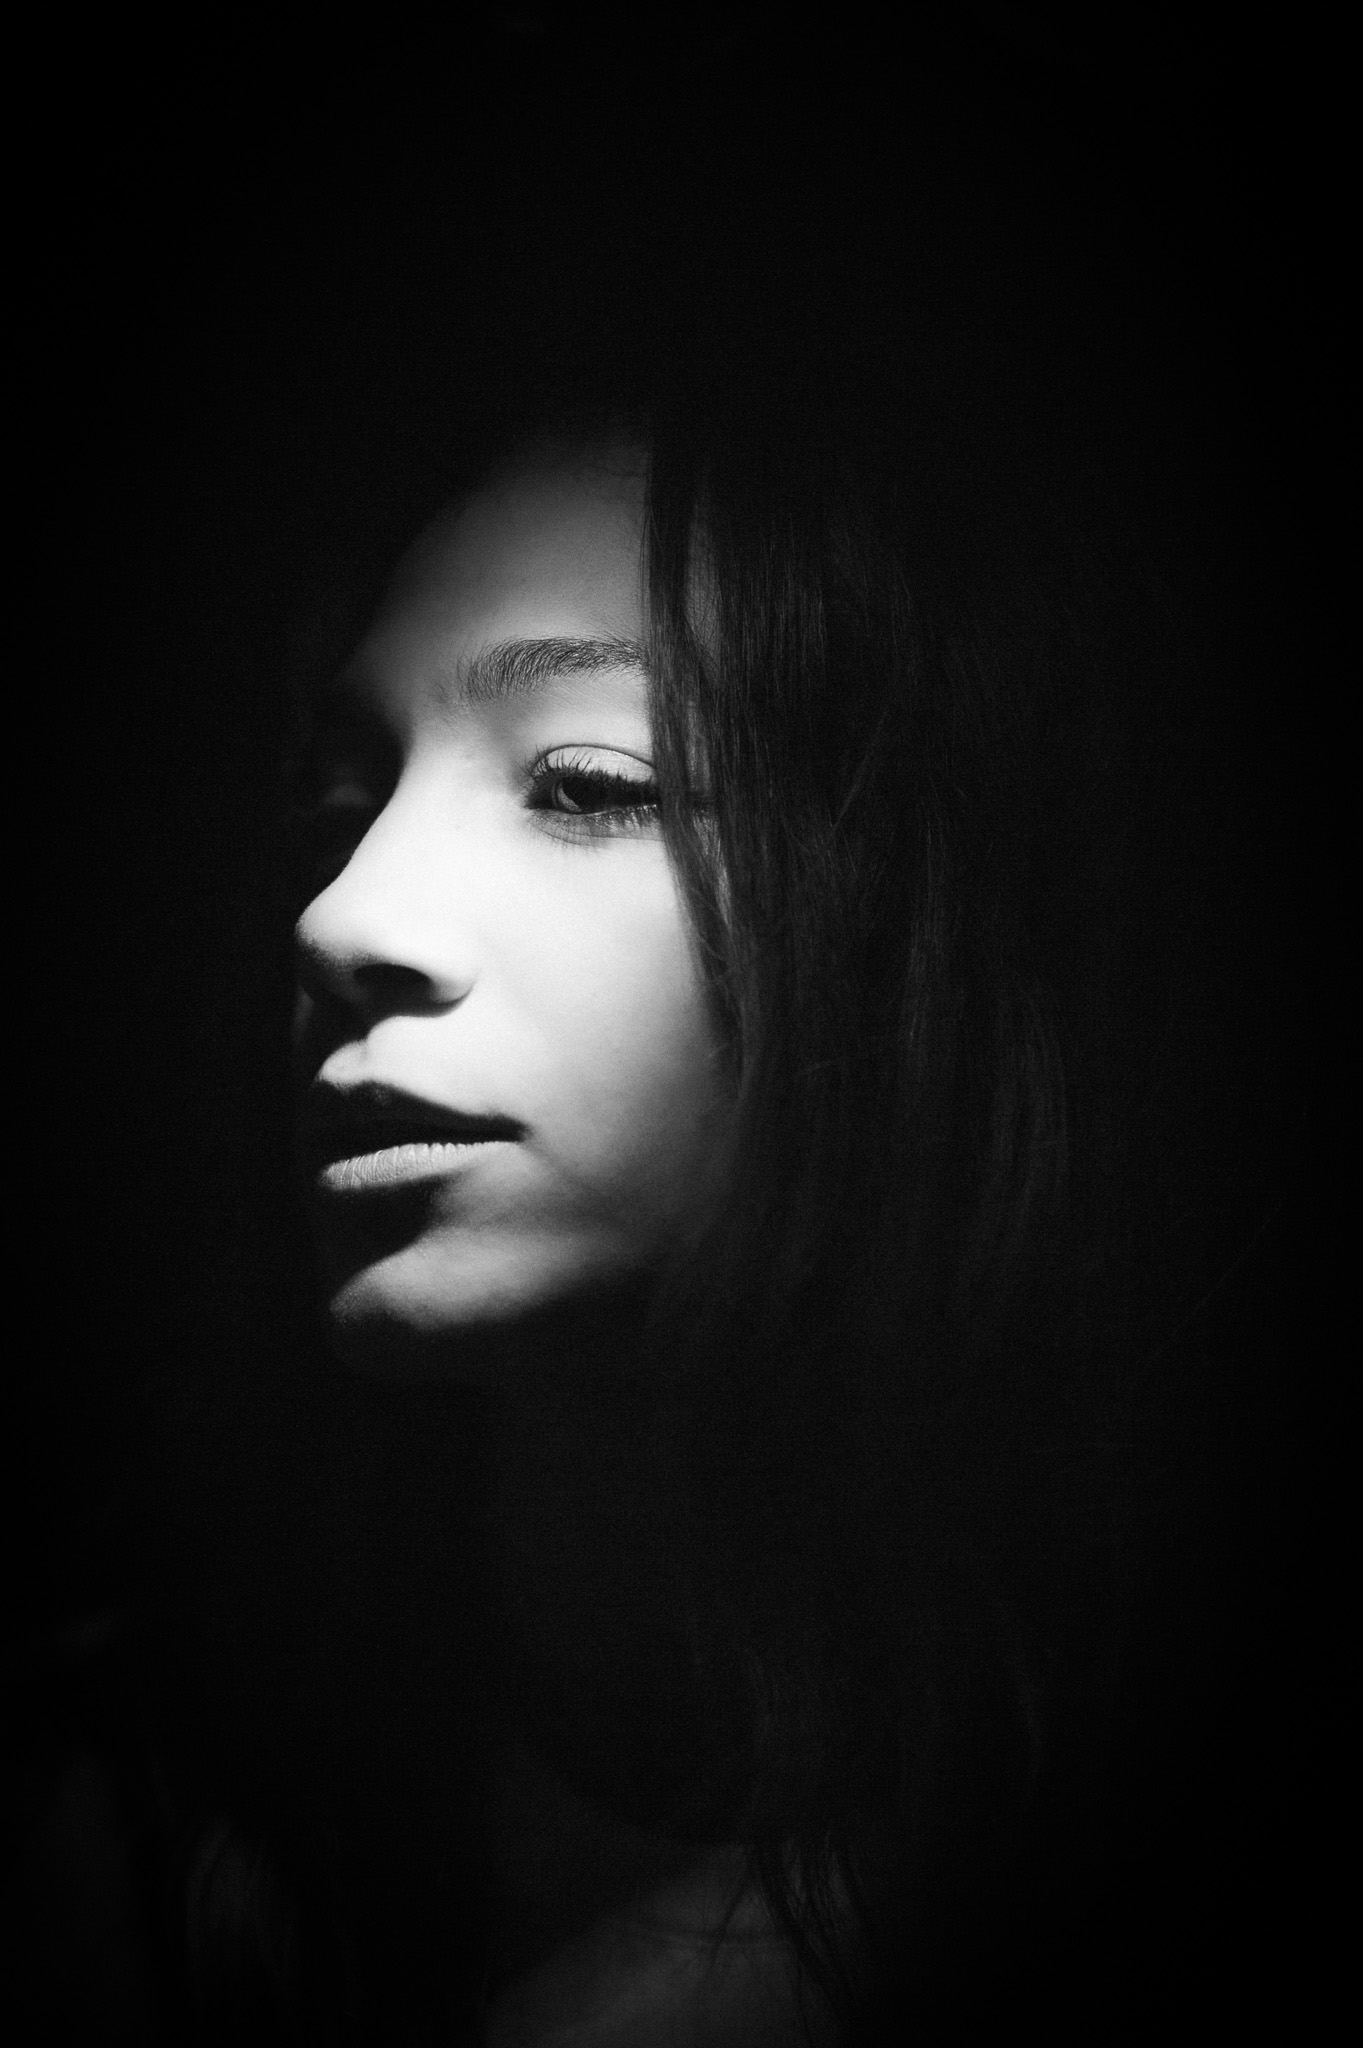
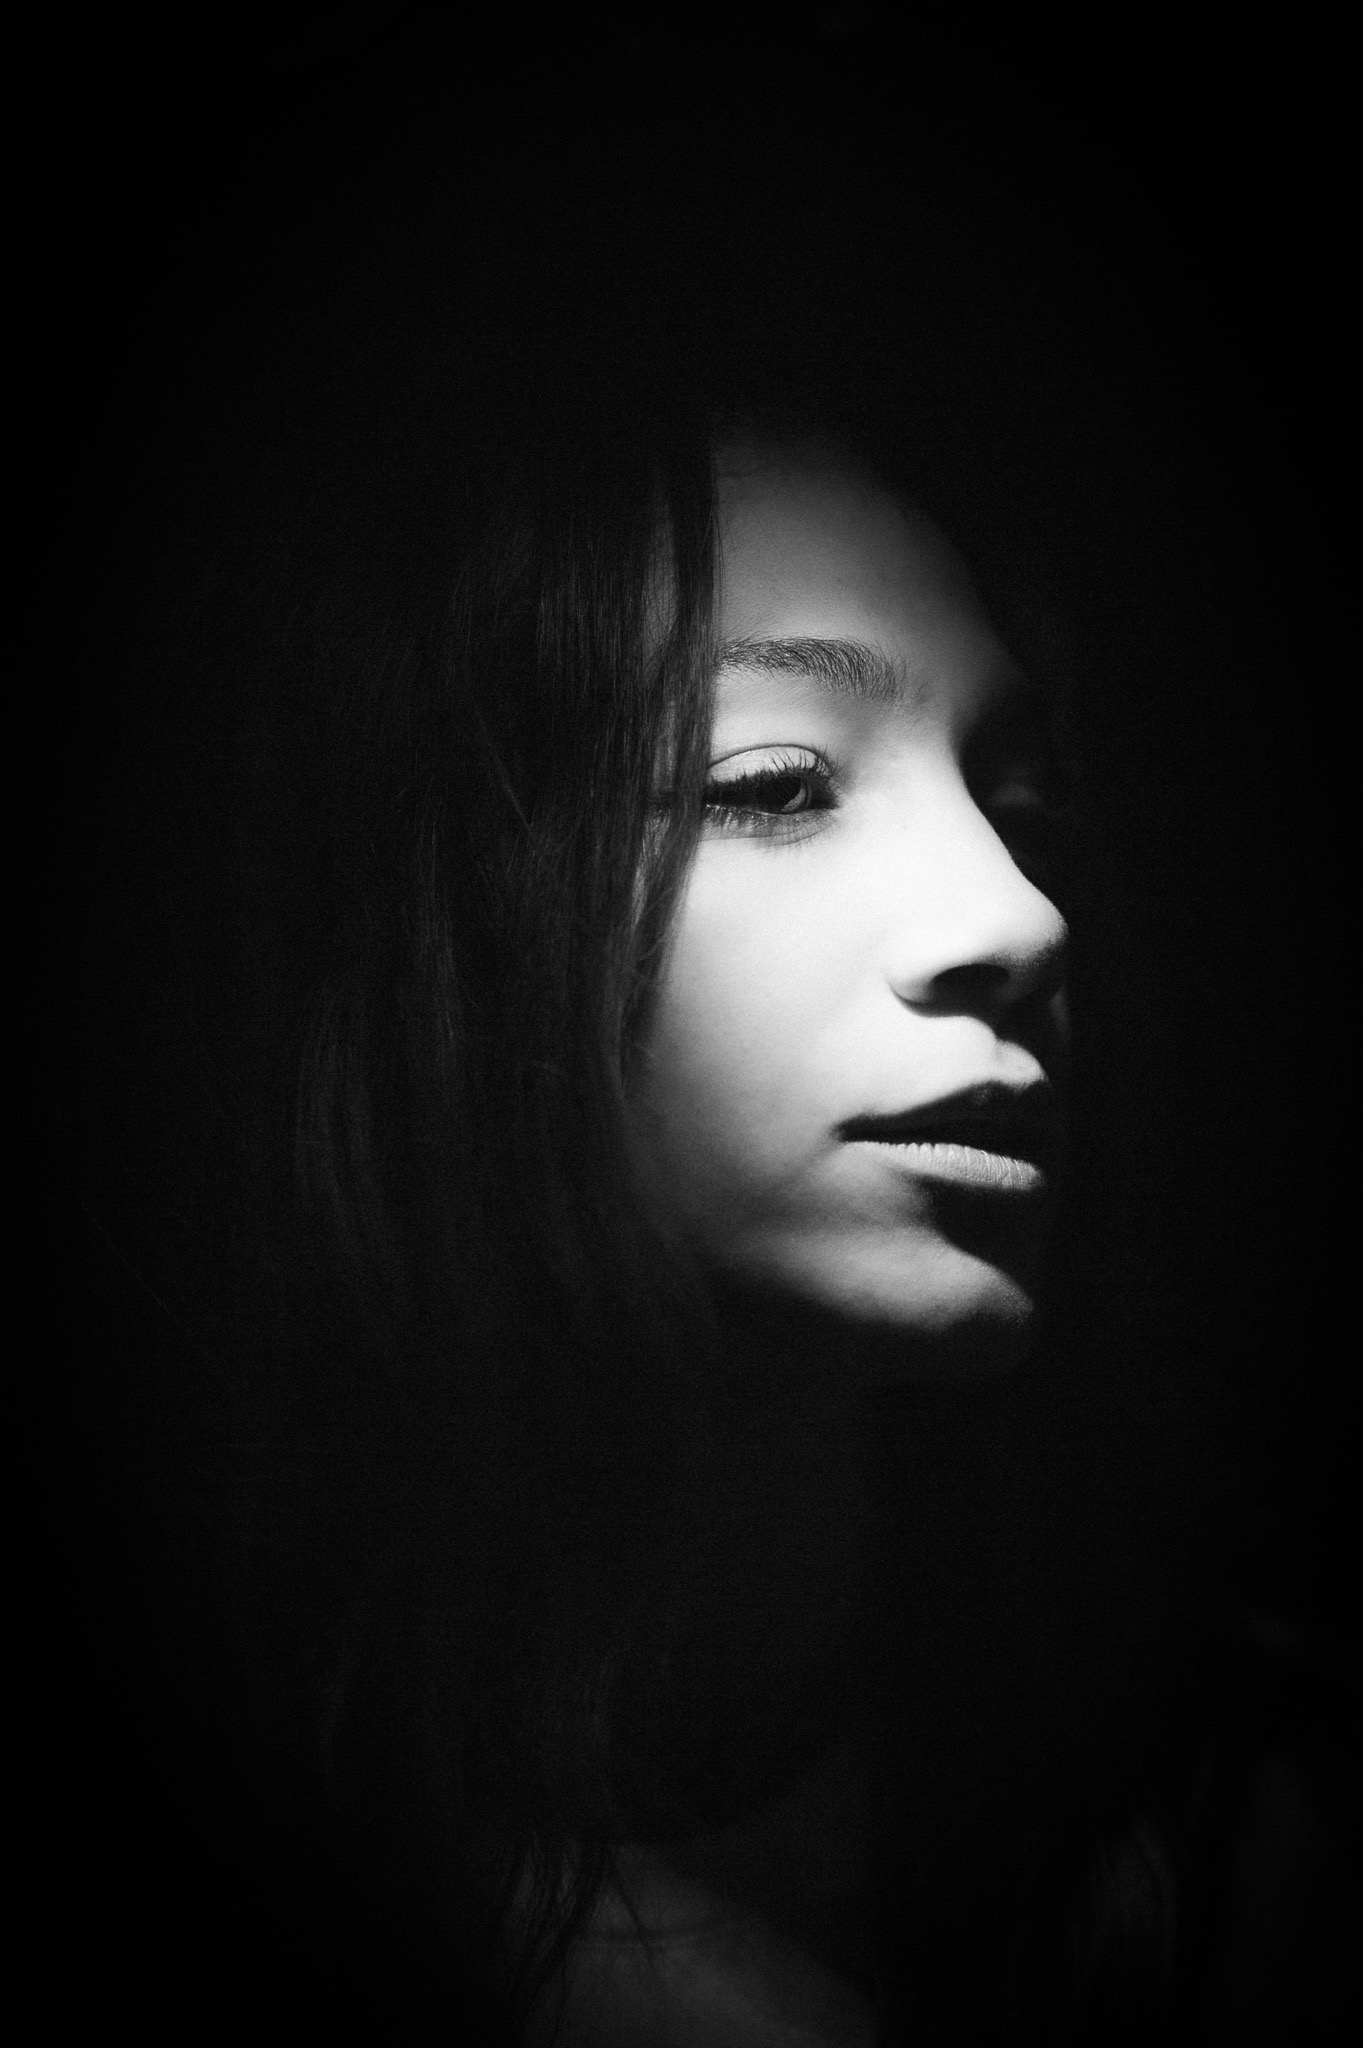
Make INDY MOOD a top-level portfolio category, flip a photo to face inward
- Move INDY MOOD out of Portrait into its own category on /portfolio
- Add a new INDY MOOD photo (11)
- Flip INDY MOOD photo 03 so she faces into the gallery
- Remove Ma Vie photo 2
- Replace studio hero photo with a better-lit retouch
- About: "fille d'un photographe de mode" instead of "belge reconnu"

Changed region(s): [[0.2157, 0.2188, 0.8012, 0.6562]]

diff --git a/src/data/portfolio.ts b/src/data/portfolio.ts
@@ -97,6 +97,7 @@ import portraitMyMood07 from "@/images/portfolio/portrait/My Mood/07.jpg";
 import portraitMyMood08 from "@/images/portfolio/portrait/My Mood/08.jpg";
 import portraitMyMood09 from "@/images/portfolio/portrait/My Mood/09.jpg";
 import portraitMyMood10 from "@/images/portfolio/portrait/My Mood/10.jpg";
+import portraitMyMood11 from "@/images/portfolio/portrait/My Mood/11.jpg";
 import portraitDidierVdbCover from "@/images/portfolio/portrait/didier-vdb/cover.jpg";
 import portraitDidierVdb01 from "@/images/portfolio/portrait/didier-vdb/01.jpg";
 import portraitDidierVdb02 from "@/images/portfolio/portrait/didier-vdb/02.jpg";
@@ -115,7 +116,6 @@ import portraitEsphan09 from "@/images/portfolio/portrait/esphan/09.jpg";
 import corporateCover from "@/images/portfolio/corporate/cover.jpg";
 import corporateMaVieCover from "@/images/portfolio/corporate/ma-vie/cover.jpg";
 import corporateMaVie01 from "@/images/portfolio/corporate/ma-vie/01.jpg";
-import corporateMaVie02 from "@/images/portfolio/corporate/ma-vie/02.jpg";
 import corporateMaVie03 from "@/images/portfolio/corporate/ma-vie/03.jpg";
 import corporateMaVie04 from "@/images/portfolio/corporate/ma-vie/04.jpg";
 import corporateMaVie05 from "@/images/portfolio/corporate/ma-vie/05.jpg";
@@ -171,7 +171,8 @@ export type CategorySlug =
   | "portrait"
   | "corporate"
   | "sante"
-  | "famille";
+  | "famille"
+  | "my-mood";
 
 export type Series = {
   slug: string;
@@ -293,15 +294,6 @@ export const categories: CategoryData[] = [
         ],
       },
       {
-        slug: "my-mood",
-        cover: portraitMyMoodCover,
-        images: [
-          portraitMyMood01, portraitMyMood02, portraitMyMood03, portraitMyMood04,
-          portraitMyMood05, portraitMyMood06, portraitMyMood07, portraitMyMood08,
-          portraitMyMood09, portraitMyMood10,
-        ],
-      },
-      {
         slug: "didier-vdb",
         cover: portraitDidierVdbCover,
         images: [
@@ -328,7 +320,7 @@ export const categories: CategoryData[] = [
         slug: "ma-vie",
         cover: corporateMaVieCover,
         images: [
-          corporateMaVie01, corporateMaVie02, corporateMaVie03, corporateMaVie04,
+          corporateMaVie01, corporateMaVie03, corporateMaVie04,
           corporateMaVie05, corporateMaVie06, corporateMaVie09, corporateMaVie11,
           corporateMaVie12, corporateMaVie13, corporateMaVie14, corporateMaVie15,
           corporateMaVie17,
@@ -371,6 +363,21 @@ export const categories: CategoryData[] = [
         cover: familleFemmeEnceinteCover,
         images: [
           familleFemmeEnceinte01, familleFemmeEnceinte02, familleFemmeEnceinte03,
+        ],
+      },
+    ],
+  },
+  {
+    slug: "my-mood",
+    cover: portraitMyMoodCover,
+    series: [
+      {
+        slug: "my-mood",
+        cover: portraitMyMoodCover,
+        images: [
+          portraitMyMood01, portraitMyMood02, portraitMyMood03, portraitMyMood04,
+          portraitMyMood05, portraitMyMood06, portraitMyMood07, portraitMyMood08,
+          portraitMyMood09, portraitMyMood10, portraitMyMood11,
         ],
       },
     ],

diff --git a/src/lib/i18n.ts b/src/lib/i18n.ts
@@ -167,6 +167,13 @@ export const dictionaries: Record<Locale, Dictionary> = {
           "femme-enceinte": "Femme enceinte",
         },
       },
+      "my-mood": {
+        title: "INDY MOOD",
+        description: "Univers personnel et créatif, entre expérimentation et émotion.",
+        series: {
+          "my-mood": "INDY MOOD",
+        },
+      },
     },
     subseries: {
       portrait: {
@@ -287,7 +294,7 @@ export const dictionaries: Record<Locale, Dictionary> = {
     about: {
       title: "À propos",
       paragraphs: [
-        "Fille d'un photographe belge reconnu, j'ai grandi entourée d'objectifs, de lumière et d'émotions capturées. Tout naturellement, j'ai suivi les traces de mon père, en apportant ma propre sensibilité et ma vision artistique à ce métier.",
+        "Fille d'un photographe de mode, j'ai grandi entourée d'objectifs, de lumière et d'émotions capturées. Tout naturellement, j'ai suivi les traces de mon père, en apportant ma propre sensibilité et ma vision artistique à ce métier.",
         "Depuis un an, je me consacre pleinement à la photographie, un univers où je peux exprimer ma créativité et donner vie aux émotions à travers l'image. Mon style est avant tout artistique, mais je reste ouverte à différents univers : portrait, mode, concepts créatifs ou projets professionnels.",
         "J'ai commencé mon parcours dans mon propre studio photo, un espace où je peux créer librement, jouer avec la lumière, les textures et les atmosphères pour raconter des histoires visuelles uniques. Chaque séance est une rencontre — une expérience humaine et artistique où l'authenticité prime avant tout.",
         "Mon objectif ? Capturer l'instant, révéler la beauté dans sa forme la plus pure, et créer des images qui vous ressemblent vraiment.",
@@ -384,6 +391,13 @@ export const dictionaries: Record<Locale, Dictionary> = {
         description: "Family life moments, between tenderness and authenticity.",
         series: {
           "femme-enceinte": "Maternity",
+        },
+      },
+      "my-mood": {
+        title: "INDY MOOD",
+        description: "A personal, creative universe, between experimentation and emotion.",
+        series: {
+          "my-mood": "INDY MOOD",
         },
       },
     },

diff --git a/src/app/[locale]/studio/page.tsx b/src/app/[locale]/studio/page.tsx
@@ -2,7 +2,7 @@ import Image from "next/image";
 import Link from "next/link";
 import type { Metadata } from "next";
 import { getDictionary, isLocale, defaultLocale, type Locale } from "@/lib/i18n";
-import heroImage from "@/images/Studio/PHOTO-2026-08-13-11-18-19.jpg";
+import heroImage from "@/images/Studio/PHOTO-2026-08-14-13-01-50.jpg";
 import lightingImage from "@/images/Studio/PHOTO-2026-08-13-11-25-37.jpg";
 import backdropImage from "@/images/Studio/PHOTO-2026-08-13-11-26-57.jpg";
 import makeupImage from "@/images/Studio/PHOTO-2026-08-13-11-24-52.jpg";

diff --git a/src/app/[locale]/portfolio/[category]/page.tsx b/src/app/[locale]/portfolio/[category]/page.tsx
@@ -64,7 +64,7 @@ export default async function CategoryPage({
             cover: series.cover,
             covers: isSeriesGroup(series) ? undefined : series.coverImages,
             label: info.series[series.slug] ?? series.slug,
-            showLabel: category !== "portrait" || series.slug === "my-mood",
+            showLabel: category !== "portrait",
           }))}
         />
       ) : (
